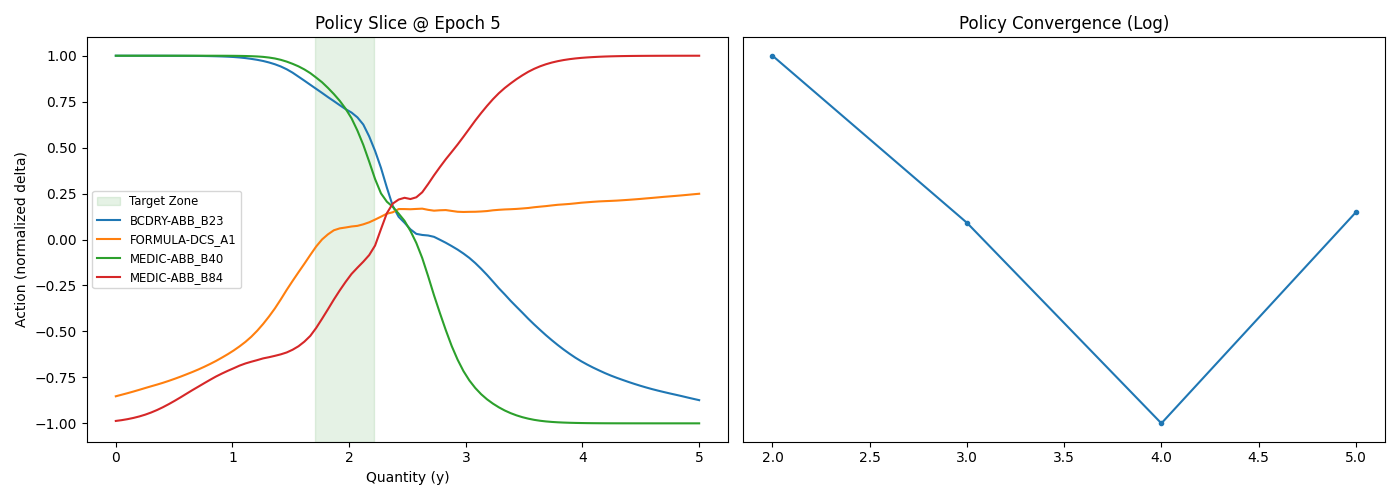
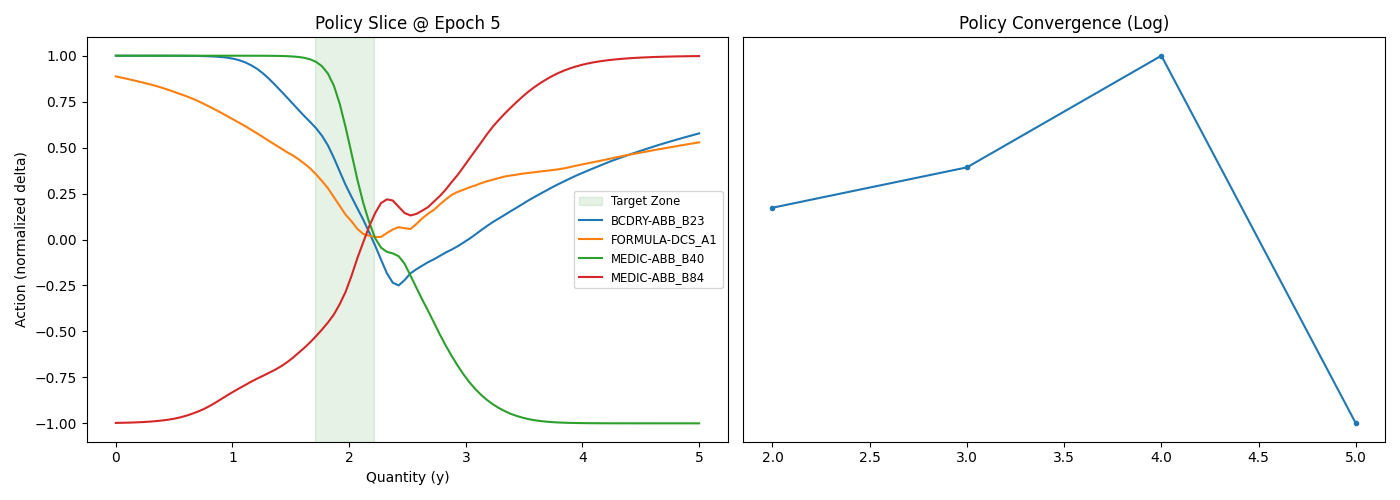
feat: Implement per-parameter Y2 axis range management
- Backend: Calculate 6-sigma ranges for all numeric parameters
- Backend: Store ranges as dictionary in config and metadata
- Frontend: Fix Y-axis modal input width overflow (box-sizing)
- Frontend: Add per-parameter Y2 axis range support
- Frontend: Add Y2 axis click handler and dedicated settings modal
- Frontend: Support manual override for individual parameters

diff --git a/static/js/dashboard_modules/charts_manager.js b/static/js/dashboard_modules/charts_manager.js
@@ -24,6 +24,16 @@ let y2AxisConfig = {
     max: null
 };
 
+// Global Y2-Axis Ranges (Per Parameter)
+let y2AxisRanges = {};
+
+export function setAllY2Ranges(ranges) {
+    console.log("Setting Y2 Ranges:", ranges);
+    y2AxisRanges = ranges || {};
+    updateAllChartsYAxis();
+}
+window.setAllY2Ranges = setAllY2Ranges;
+
 export function setY2Range(min, max) {
     y2AxisConfig.min = min;
     y2AxisConfig.max = max;
@@ -85,8 +95,8 @@ export function createMainChart(canvasId, actionName, deadzone, goalName, yAxisM
             maintainAspectRatio: false,
             animation: false,
             onHover: (e, elements, chart) => {
-                // Change cursor when hovering Y-Axis area
-                if (e.x < chart.chartArea.left) {
+                // Change cursor when hovering Y-Axis area (Left or Right)
+                if (e.x < chart.chartArea.left || e.x > chart.chartArea.right) {
                     e.native.target.style.cursor = 'pointer';
                 } else {
                     e.native.target.style.cursor = 'default';
@@ -130,15 +140,24 @@ export function createMainChart(canvasId, actionName, deadzone, goalName, yAxisM
             const rect = canvas.getBoundingClientRect();
             const x = e.clientX - rect.left;
 
-            // Debug Log
-            console.log(`Native Click Check: x=${x}, Boundary=${chart.chartArea ? chart.chartArea.left : 'N/A'}`);
+            if (!chart.chartArea) return;
 
-            if (chart.chartArea && x < chart.chartArea.left) {
-                console.log('Native Y-Axis Triggered');
+            // Check Y1 Axis (Left)
+            if (x < chart.chartArea.left) {
+                console.log('Y1 Axis Clicked');
                 if (typeof window.openYAxisModal === 'function') {
                     window.openYAxisModal();
                 } else {
                     console.error('window.openYAxisModal missing');
+                }
+            }
+            // Check Y2 Axis (Right)
+            else if (x > chart.chartArea.right) {
+                console.log('Y2 Axis Clicked:', actionName);
+                if (typeof window.openY2AxisModal === 'function') {
+                    window.openY2AxisModal(actionName);
+                } else {
+                    console.error('window.openY2AxisModal missing');
                 }
             }
         });
@@ -484,8 +503,18 @@ function updateAllChartsYAxis() {
         }
 
         // Update Y2 Action Axis
+        // Update Y2 Action Axis
         if (chart.options.scales.yAction) {
-            if (y2AxisConfig.min !== null && y2AxisConfig.max !== null) {
+            // Try to find parameter specific range first
+            const paramName = chart.options.scales.yAction.title.text;
+            const specificRange = y2AxisRanges[paramName];
+
+            if (specificRange && Array.isArray(specificRange)) {
+                // Apply specific 6-sigma range
+                chart.options.scales.yAction.min = specificRange[0];
+                chart.options.scales.yAction.max = specificRange[1];
+            } else if (y2AxisConfig.min !== null && y2AxisConfig.max !== null) {
+                // Fallback to global manual setting
                 chart.options.scales.yAction.min = y2AxisConfig.min;
                 chart.options.scales.yAction.max = y2AxisConfig.max;
             } else {
@@ -506,6 +535,109 @@ window.destroyChart = destroyChart;
 window.getChart = getChart;
 window.registerChart = registerChart;
 window.resizeAllCharts = resizeAllCharts;
+
+// --- Y2-Axis Control Functions ---
+let currentY2ParamName = null;
+
+function y2SettingsModalEscHandler(e) {
+    if (e.key === 'Escape') {
+        closeY2AxisSettings();
+    }
+}
+
+export function openY2AxisModal(paramName) {
+    currentY2ParamName = paramName;
+    const modal = document.getElementById('y2axis-settings-modal');
+    if (modal) {
+        modal.style.display = 'flex';
+        modal.style.zIndex = '99999';
+        modal.style.visibility = 'visible';
+        modal.style.opacity = '1';
+
+        // Update modal title with parameter name
+        const titleElem = document.getElementById('y2axis-modal-title');
+        if (titleElem) {
+            titleElem.textContent = `Y2 軸範圍設定 (${paramName})`;
+        }
+
+        // Add Esc listener
+        window.addEventListener('keydown', y2SettingsModalEscHandler);
+
+        // Pre-fill with current range if exists
+        const currentRange = y2AxisRanges[paramName];
+        if (currentRange && Array.isArray(currentRange)) {
+            document.getElementById('y2axis-min-input').value = currentRange[0].toFixed(3);
+            document.getElementById('y2axis-max-input').value = currentRange[1].toFixed(3);
+        } else {
+            // Try to get from chart
+            const targetChart = Object.values(charts).find(c =>
+                c && c.options.scales.yAction && c.options.scales.yAction.title.text === paramName
+            );
+            if (targetChart && targetChart.scales.yAction) {
+                document.getElementById('y2axis-min-input').value = targetChart.scales.yAction.min ? targetChart.scales.yAction.min.toFixed(3) : '';
+                document.getElementById('y2axis-max-input').value = targetChart.scales.yAction.max ? targetChart.scales.yAction.max.toFixed(3) : '';
+            } else {
+                document.getElementById('y2axis-min-input').value = '';
+                document.getElementById('y2axis-max-input').value = '';
+            }
+        }
+    }
+}
+
+export function closeY2AxisSettings() {
+    const modal = document.getElementById('y2axis-settings-modal');
+    if (modal) {
+        modal.style.display = 'none';
+    }
+    window.removeEventListener('keydown', y2SettingsModalEscHandler);
+    currentY2ParamName = null;
+}
+
+export function applyY2AxisSettings() {
+    if (!currentY2ParamName) {
+        alert("錯誤：未指定參數名稱");
+        return;
+    }
+
+    const minVal = parseFloat(document.getElementById('y2axis-min-input').value);
+    const maxVal = parseFloat(document.getElementById('y2axis-max-input').value);
+
+    if (isNaN(minVal) || isNaN(maxVal)) {
+        alert("請輸入有效的數字");
+        return;
+    }
+
+    if (minVal >= maxVal) {
+        alert("最小值必須小於最大值");
+        return;
+    }
+
+    // Update specific parameter range
+    y2AxisRanges[currentY2ParamName] = [minVal, maxVal];
+    console.log(`Updated Y2 range for ${currentY2ParamName}:`, [minVal, maxVal]);
+
+    closeY2AxisSettings();
+    updateAllChartsYAxis();
+}
+
+export function resetY2AxisSettings() {
+    if (!currentY2ParamName) {
+        alert("錯誤：未指定參數名稱");
+        return;
+    }
+
+    // Remove specific parameter range (fallback to auto or backend 6-sigma)
+    delete y2AxisRanges[currentY2ParamName];
+    console.log(`Reset Y2 range for ${currentY2ParamName} to auto`);
+
+    closeY2AxisSettings();
+    updateAllChartsYAxis();
+}
+
+window.openY2AxisModal = openY2AxisModal;
+window.closeY2AxisSettings = closeY2AxisSettings;
+window.applyY2AxisSettings = applyY2AxisSettings;
+window.resetY2AxisSettings = resetY2AxisSettings;
 
 // Auto-init drag listeners when loaded
 setTimeout(initGoalChartDrag, 1000);

diff --git a/dashboard.html b/dashboard.html
@@ -2729,7 +2729,7 @@
                     (Max)</label>
                 <div style="position: relative;">
                     <input type="number" id="yaxis-max-input" step="0.01" class="editable-input"
-                        style="width: 100%; padding: 10px 12px; border: 1px solid #cbd5e1; border-radius: 8px; font-size: 15px; background: #f8fafc; transition: all 0.2s;"
+                        style="box-sizing: border-box; width: 100%; padding: 10px 12px; border: 1px solid #cbd5e1; border-radius: 8px; font-size: 15px; background: #f8fafc; transition: all 0.2s;"
                         onfocus="this.style.borderColor='#3b82f6'; this.style.background='#fff';"
                         onblur="this.style.borderColor='#cbd5e1'; this.style.background='#f8fafc';">
                 </div>
@@ -2740,7 +2740,7 @@
                     (Min)</label>
                 <div style="position: relative;">
                     <input type="number" id="yaxis-min-input" step="0.01" class="editable-input"
-                        style="width: 100%; padding: 10px 12px; border: 1px solid #cbd5e1; border-radius: 8px; font-size: 15px; background: #f8fafc; transition: all 0.2s;"
+                        style="box-sizing: border-box; width: 100%; padding: 10px 12px; border: 1px solid #cbd5e1; border-radius: 8px; font-size: 15px; background: #f8fafc; transition: all 0.2s;"
                         onfocus="this.style.borderColor='#3b82f6'; this.style.background='#fff';"
                         onblur="this.style.borderColor='#cbd5e1'; this.style.background='#f8fafc';">
                 </div>
@@ -2780,6 +2780,55 @@
                     (Auto)</button>
                 <button onclick="applyYAxisSettings()"
                     style="padding: 8px 16px; background: #3b82f6; color: white; border: none; border-radius: 6px; cursor: pointer;">套用</button>
+            </div>
+        </div>
+    </div>
+
+    <!-- Y2-Axis Settings Modal -->
+    <div id="y2axis-settings-modal" class="modal"
+        style="backdrop-filter: blur(5px); background-color: rgba(0, 0, 0, 0.4);">
+        <div class="modal-content"
+            style="max-width: 320px; padding: 25px; border-radius: 12px; box-shadow: 0 10px 25px rgba(0,0,0,0.15); border: none;">
+            <span class="close-modal" onclick="closeY2AxisSettings()"
+                style="top: 15px; right: 20px; font-size: 24px; color: #64748b; font-weight: normal;">&times;</span>
+
+            <div style="display: flex; align-items: center; gap: 10px; margin-bottom: 25px;">
+                <span style="font-size: 20px;">📊</span>
+                <h3 id="y2axis-modal-title" style="margin: 0; color: #1e293b; font-size: 18px; font-weight: 600;">Y2
+                    軸範圍設定</h3>
+            </div>
+
+            <div style="margin-bottom: 20px;">
+                <label style="display:block; margin-bottom: 8px; font-size: 13px; color: #475569; font-weight: 600;">上限
+                    (Max)</label>
+                <div style="position: relative;">
+                    <input type="number" id="y2axis-max-input" step="0.01" class="editable-input"
+                        style="box-sizing: border-box; width: 100%; padding: 10px 12px; border: 1px solid #cbd5e1; border-radius: 8px; font-size: 15px; background: #f8fafc; transition: all 0.2s;"
+                        onfocus="this.style.borderColor='#3b82f6'; this.style.background='#fff';"
+                        onblur="this.style.borderColor='#cbd5e1'; this.style.background='#f8fafc';">
+                </div>
+            </div>
+
+            <div style="margin-bottom: 25px;">
+                <label style="display:block; margin-bottom: 8px; font-size: 13px; color: #475569; font-weight: 600;">下限
+                    (Min)</label>
+                <div style="position: relative;">
+                    <input type="number" id="y2axis-min-input" step="0.01" class="editable-input"
+                        style="box-sizing: border-box; width: 100%; padding: 10px 12px; border: 1px solid #cbd5e1; border-radius: 8px; font-size: 15px; background: #f8fafc; transition: all 0.2s;"
+                        onfocus="this.style.borderColor='#3b82f6'; this.style.background='#fff';"
+                        onblur="this.style.borderColor='#cbd5e1'; this.style.background='#f8fafc';">
+                </div>
+            </div>
+
+            <div style="display: grid; grid-template-columns: 1fr 1fr; gap: 12px;">
+                <button onclick="resetY2AxisSettings()"
+                    style="padding: 10px; background: #f1f5f9; color: #475569; border: 1px solid #cbd5e1; border-radius: 8px; cursor: pointer; font-weight: 600; font-size: 14px; transition: all 0.2s;">
+                    重置自動
+                </button>
+                <button onclick="applyY2AxisSettings()"
+                    style="padding: 10px; background: #3b82f6; color: white; border: none; border-radius: 8px; cursor: pointer; font-weight: 600; font-size: 14px; box-shadow: 0 4px 6px -1px rgba(59, 130, 246, 0.3); transition: all 0.2s;">
+                    確認套用
+                </button>
             </div>
         </div>
     </div>

diff --git a/static/js/dashboard_modules/simulator.js b/static/js/dashboard_modules/simulator.js
@@ -123,16 +123,27 @@ export function initSimulatorSelectors() {
                 const result = await API.post('/api/model/load', { model_path: modelPath });
                 if (result.status === 'success') {
                     // Apply Y2 Axis Range from Model Config
-                    if (result.config && result.config.y2_axis_range && Array.isArray(result.config.y2_axis_range)) {
+                    // Apply Y2 Ranges (Detailed Dictionary) - NEW
+                    if (result.config && result.config.y2_axis_ranges && typeof window.setAllY2Ranges === 'function') {
+                        window.setAllY2Ranges(result.config.y2_axis_ranges);
+                        // Clear global manual override so specific ranges take precedence
+                        if (typeof window.setY2Range === 'function') window.setY2Range(null, null);
+                        console.log("Applied detailed per-parameter Y2 ranges");
+                    }
+                    // Apply Y2 Axis Range (Legacy Global List) - OLD
+                    else if (result.config && result.config.y2_axis_range && Array.isArray(result.config.y2_axis_range)) {
                         const [min, max] = result.config.y2_axis_range;
                         if (typeof window.setY2Range === 'function') {
                             window.setY2Range(min, max);
-                            console.log(`Applied model Y2 range: ${min} - ${max}`);
+                            console.log(`Applied legacy model Y2 range: ${min} - ${max}`);
                         }
                     } else {
                         // Reset if no range specified
                         if (typeof window.setY2Range === 'function') {
                             window.setY2Range(null, null);
+                        }
+                        if (typeof window.setAllY2Ranges === 'function') {
+                            window.setAllY2Ranges({});
                         }
                     }
                     alert(`✅ 已載入模型:\n${result.run_path || modelPath}`);

diff --git a/engines/engine_strategy.py b/engines/engine_strategy.py
@@ -85,33 +85,32 @@ def run_parameterized_rl(
     delta_actions = df[action_features].diff().dropna()
     action_stds = delta_actions.std().values.astype(np.float32) + 1e-6
 
-    # Calculate Y2 Axis Range (BG + Action + 10% padding)
-    all_cols = df.columns.tolist()
-    # Filter numeric and exclude target/actions logic if needed, but for simplicity:
-    # BG generally implies everything else. But here we have state_features.
-    # We can use state_features + action_features as the "Inputs".
+    # Calculate Y2 Axis Range for ALL Numeric Parameters in the dataset
+    # This ensures both Strategy and Prediction model parameters are covered.
+    y2_candidates = df.select_dtypes(include=[np.number]).columns.tolist()
 
-    y2_candidates = state_features + action_features
-    # Filter valid numeric columns
-    y2_cols = [
-        c
-        for c in y2_candidates
-        if c in df.columns and np.issubdtype(df[c].dtype, np.number)
-    ]
+    # Filter valid numeric columns (double check)
+    y2_cols = [c for c in y2_candidates if c in df.columns]
 
-    y2_range = None
+    y2_ranges = {}
     if y2_cols:
-        # Calculate Global Mean and Std for 6 Sigma Range
-        all_values = df[y2_cols].values.flatten()
-        mean_val = np.nanmean(all_values)
-        std_val = np.nanstd(all_values)
+        print("[INFO] Calculating individual Y2 ranges (Mean +/- 6 Sigma):")
+        for col in y2_cols:
+            col_data = df[col].dropna()
+            if len(col_data) == 0:
+                continue
 
-        # 避免 std 為 0 的情況
-        if std_val == 0:
-            std_val = 1.0 if mean_val == 0 else abs(mean_val) * 0.1
+            mean_v = col_data.mean()
+            std_v = col_data.std()
 
-        y2_range = [float(mean_val - 6 * std_val), float(mean_val + 6 * std_val)]
-        print(f"[INFO] Calculated Y2 Range (Mean +/- 6 Sigma): {y2_range}")
+            # Handle zero std
+            if std_v == 0:
+                std_v = 1.0 if mean_v == 0 else abs(mean_v) * 0.1
+
+            min_v = float(mean_v - 6 * std_v)
+            max_v = float(mean_v + 6 * std_v)
+            y2_ranges[col] = [min_v, max_v]
+            print(f"   Parameter '{col}': {[min_v, max_v]}")
 
     # 2. 構建 MDPDataset
     states, actions, rewards, terminals = [], [], [], []
@@ -271,7 +270,7 @@ def run_parameterized_rl(
         action_stds,
         final_epoch,
         diff,
-        global_y2_range=y2_range,
+        action_ranges=y2_ranges,
     )
 
     return {
@@ -279,7 +278,7 @@ def run_parameterized_rl(
         "run_dir": run_dir,
         "final_epoch": final_epoch,
         "final_diff": diff,
-        "y2_range": y2_range,
+        "y2_ranges": y2_ranges,
     }
 
 
@@ -328,8 +327,8 @@ def run_from_json(json_path):
         job_config["final_diff"] = round(result.get("final_diff", 0), 6)
         job_config["run_dir"] = result.get("run_dir")
 
-        if result.get("y2_range"):
-            job_config["y2_axis_range"] = result.get("y2_range")
+        if result.get("y2_ranges"):
+            job_config["y2_axis_ranges"] = result.get("y2_ranges")
 
         # 關鍵：在策略輸出資料夾內也存一份「暫存緩存」
         run_path = result.get("run_dir")

diff --git a/core_logic/model_manager.py b/core_logic/model_manager.py
@@ -15,7 +15,7 @@ def save_policy_bundle(
     epoch=None,
     diff=None,
     target_range=None,
-    global_y2_range=None,
+    action_ranges=None,  # 改為 action_ranges，預期是 dict: {param: [min, max]}
 ):
     """Saves policy model and its inference metadata as a bundle."""
     os.makedirs(save_dir, exist_ok=True)
@@ -45,7 +45,7 @@ def save_policy_bundle(
         "target_center": (target_range[0] + target_range[1]) / 2
         if target_range
         else 0.5,
-        "y2_axis_range": global_y2_range,  # 儲存 Y2 軸範圍
+        "y2_axis_ranges": action_ranges,  # 儲存 Y2 軸範圍字典 {param: [min, max]}
     }
     with open(os.path.join(save_dir, "meta.json"), "w", encoding="utf-8") as f:
         json.dump(meta, f, indent=2, ensure_ascii=False)
